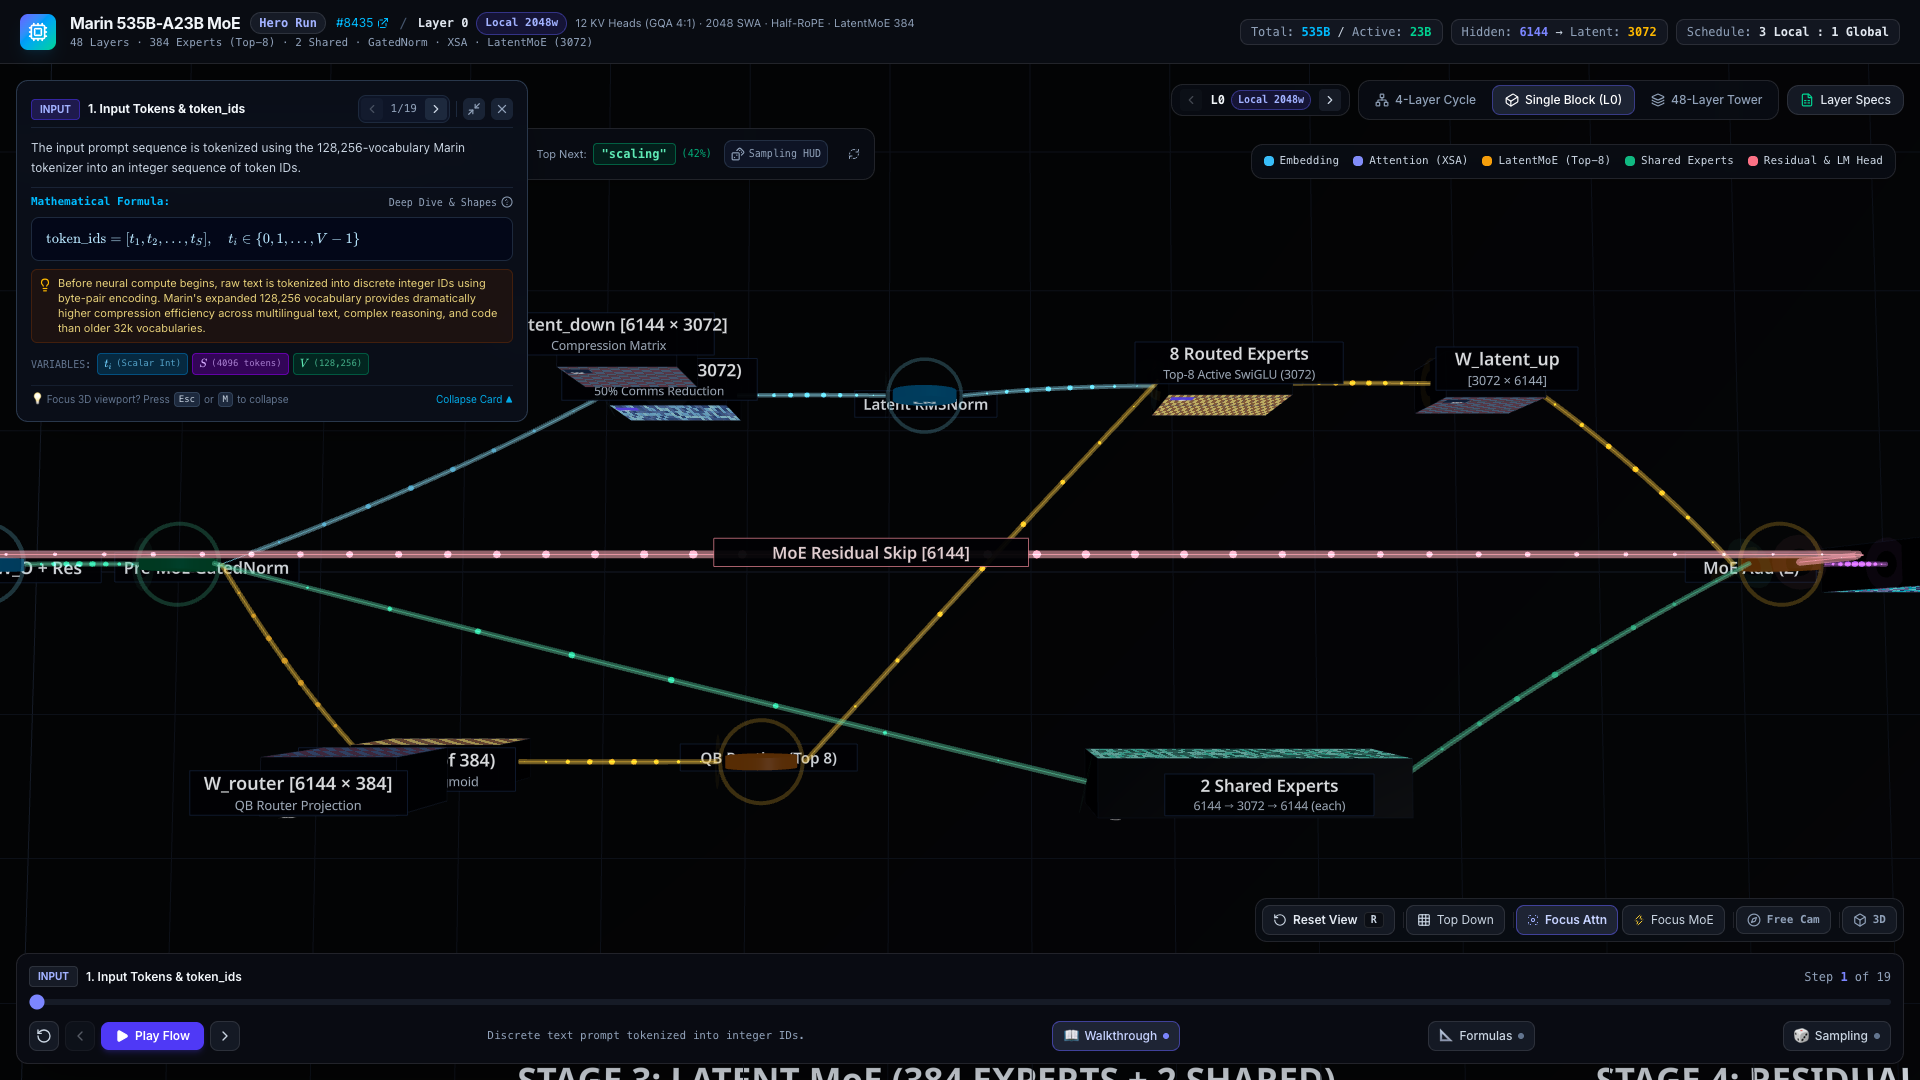
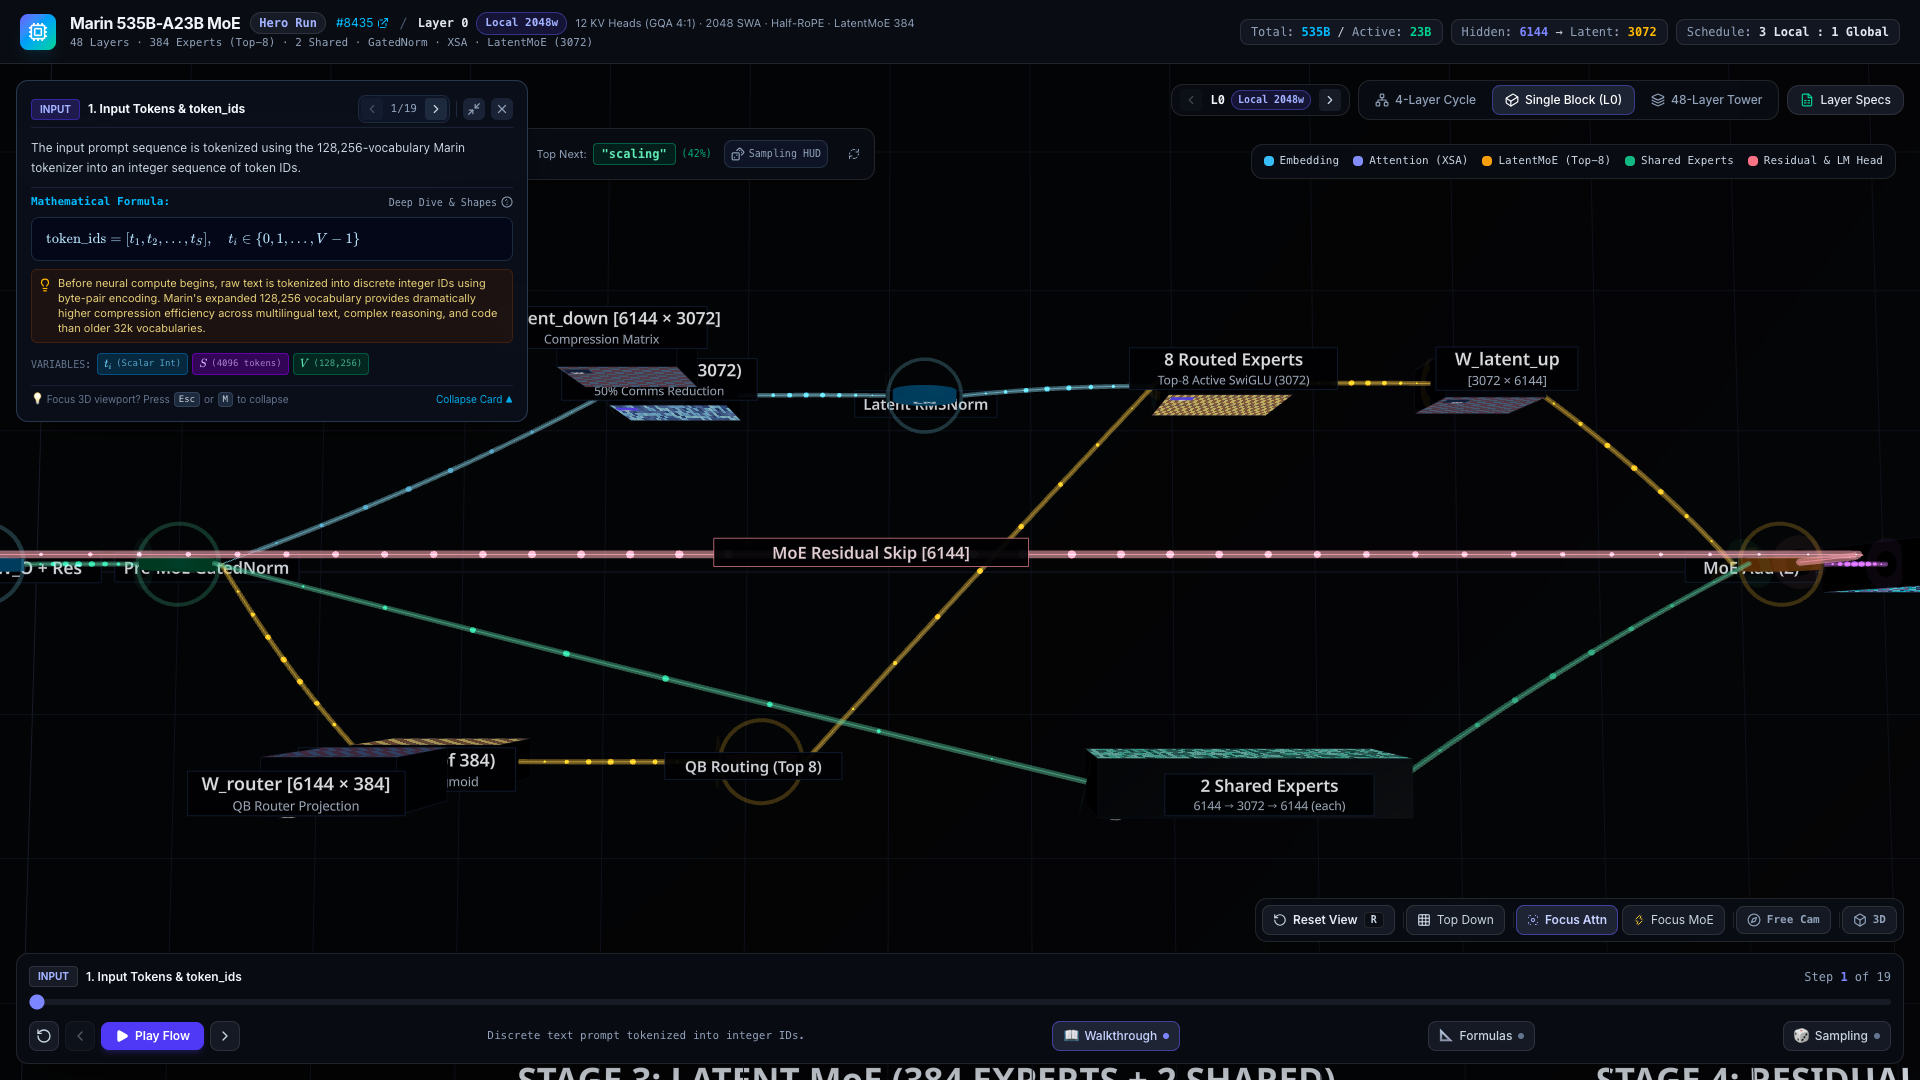
fix(visualizer): micro-adjust MoE label offsets to achieve pixel-perfect non-overlapping layout

diff --git a/src/components/ThreeScene/MicroBlockView.tsx b/src/components/ThreeScene/MicroBlockView.tsx
@@ -665,7 +665,7 @@ export const MicroBlockView: React.FC<MicroBlockViewProps> = ({
         onHover={onHoverItem}
         onClick={onClickItem}
         onHoverCell={onHoverCell}
-        labelYOffset={0.2}
+        labelYOffset={0.25}
       />
 
       {/* W_router Weight into Router */}
@@ -713,7 +713,7 @@ export const MicroBlockView: React.FC<MicroBlockViewProps> = ({
         isHighlighted={isHighlighted('op_router_qb')}
         onHover={onHoverItem}
         onClick={onClickItem}
-        labelPosition="bottom"
+        labelPosition="top"
       />
 
       {/* 2 Concurrent Shared Experts (Elevated High-Capacity Highway) */}
@@ -768,7 +768,7 @@ export const MicroBlockView: React.FC<MicroBlockViewProps> = ({
         onHover={onHoverItem}
         onClick={onClickItem}
         onHoverCell={onHoverCell}
-        labelYOffset={-0.1}
+        labelYOffset={0.25}
       />
 
       {/* W_latent_down Weight into Latent Down Matrix */}
@@ -854,7 +854,7 @@ export const MicroBlockView: React.FC<MicroBlockViewProps> = ({
         onHover={onHoverItem}
         onClick={onClickItem}
         onHoverCell={onHoverCell}
-        labelYOffset={0.1}
+        labelYOffset={-0.3}
       />
 
       {/* W_latent_up Weight Matrix */}
